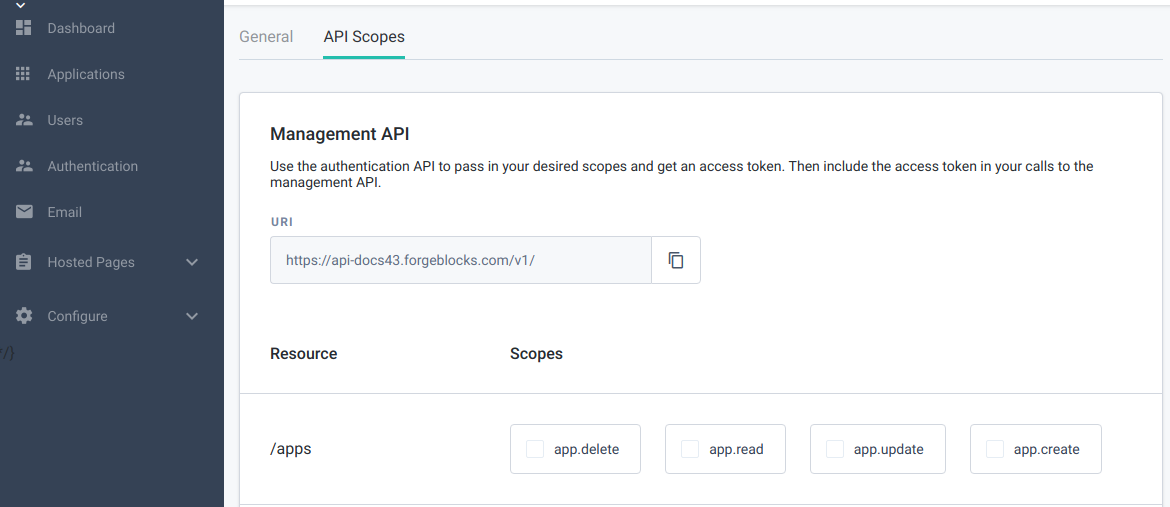
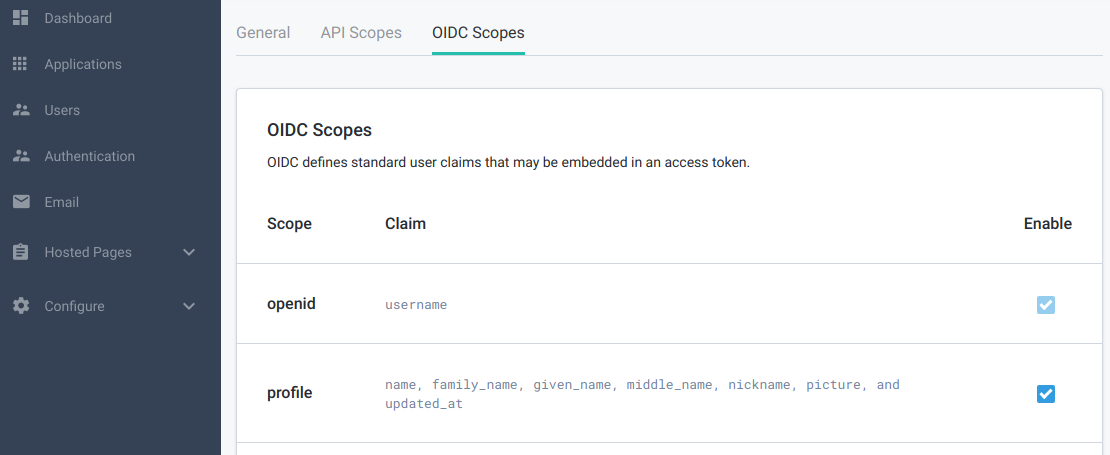
[FRAAS-64] Define OIDC scopes / claims; differentiate from custom API scopes

diff --git a/_docs/reference/scopes.md b/_docs/reference/scopes.md
@@ -1,7 +1,7 @@
 ---
 title: Scopes
 category: Reference
-category-order: 5
+category-order: 6
 order: 3
 datatable: true
 ---
@@ -19,23 +19,32 @@ Implementation can get complex, depending on authorization requirements.
 
 _**Note:** Before you can configure scopes, you must enable the **Client Credentials** grant type in the advanced settings for your app.._
 
-Based on the OpenID Connect (OIDC) specification, scopes may include:
+### OIDC Scopes
 
- - **openid**: A required scope for an OpenID Connect request, as defined in
- the [OpenID Connect Specification, Authentication Request](https://openid.net/specs/openid-connect-core-1_0.html#AuthRequest).
+Apps can use OpenID Connect (OIDC) scopes to access user information such as *name*, *email*, and *phone_number*. 
 
-The remaining scopes shown here are defined in the
-[OpenID Connect Specification on Requesting Claims using Scope Values](https://openid.net/specs/openid-connect-core-1_0.html#ScopeClaims):
+OIDC requests **must** include the following scope:
 
- - **profile** requests the following **claims*: *name*, *family_name*, *given_name*,
- *middle_name*, *nickname*, *picture*, and *updated_at*.
+ - **openid**
 
- - **email** asks for the *email* and *email_verified* claims.
+OIDC requests can also include the following scopes, which are associated with the following *voluntary* claims. 
 
- - **address** asks for the *address* claim.
+ - **profile**: *name*, *given_name*, *family_name*, *middle_name*, *nickname*, *profile*, *picture*, *zoneinfo*, *locale*, *updated_at*
 
- - **phone** requests the *phone_number* claim.
+ - **email**: *email*, *email_verified*
 
+ - **address**: *address*
+
+ - **phone**: *phone_number*
+
+A *voluntary* claim does not have to be included. For example, if you ask for information about a user without a *middle_name*, the app does not have to return that claim for the user. 
+
+You can manage these scopes from the UI. Log into https://ui-\{\{tenantName}}.forgeblocks.com. Sign in as a team member. Navigate to and select an application. You'll see available and selected scopes under an **API Scopes** tab:
+
+![]({{ site.baseurl }}/images/scopes.png)
+{: .plain-blockquote}
+
+### Custom Scopes
 
 ForgeRock also includes custom scopes as defined here. The scopes that you may use depend on the endpoint. The scopes are shown in the following format: `(entity).(action)`{: .plain}.
 
@@ -98,7 +107,9 @@ ForgeRock also includes custom scopes as defined here. The scopes that you may u
 
    - user.recover-username
 
-You can manage these scopes from the UI. Log into https://ui-\{\{tenantName}}.forgeblocks.com. Sign in as a team member. Navigate to and select an application. You'll see available and selected scopes under an **API Scopes** tab:
+### More Information
 
-![]({{ site.baseurl }}/images/scopes.png)
-{: .plain-blockquote}
+If you want more information on OIDC Scopes, see:
+
+- [OpenID Connect Specification, Authentication Request](https://openid.net  /specs/openid-connect-core-1_0.html#AuthRequest)
+- [OpenID Connect Specification on Requesting Claims using Scope Values](https:/  /openid.net/specs/openid-connect-core-1_0.html#ScopeClaims)
